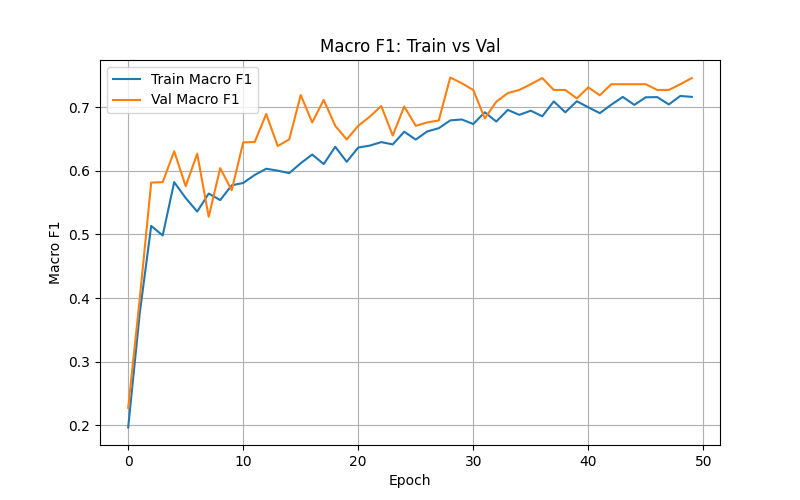
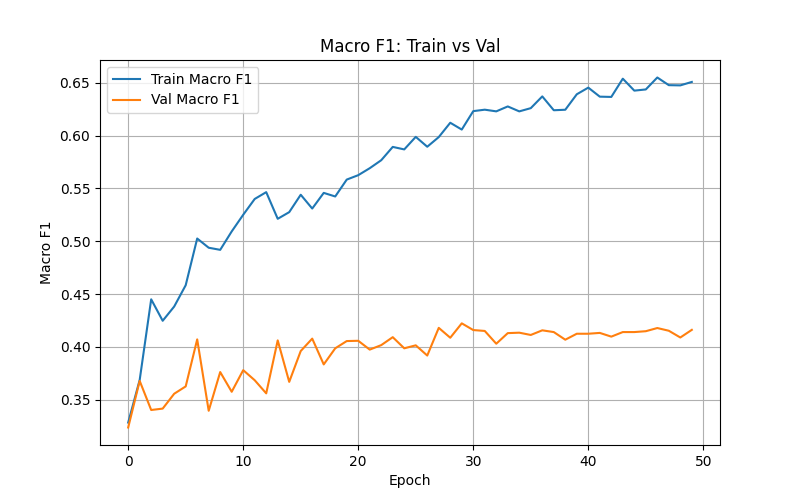
refactor: tune training class weights

diff --git a/train/train_cnn_lstm.py b/train/train_cnn_lstm.py
@@ -36,12 +36,13 @@ FEATURE_COLUMN_PATTERN = re.compile(r"^feature(\d+)_t(\d+)$")
 BATCH_SIZE = 32
 EPOCHS = 50
 LEARNING_RATE = 1e-3
-WEIGHT_DECAY = 3e-5
+WEIGHT_DECAY = 1e-5
 SCHEDULER_STEP_SIZE = 10
 SCHEDULER_GAMMA = 0.5
 VAL_RATIO = 0.2
 SPLIT_GAP_SIZE = config.SEQ_LEN
-BEST_START_EPOCH = 10
+BEST_START_EPOCH = 5
+CLASS_WEIGHT_POWER = 0.5
 
 
 # dataset 정의
@@ -213,6 +214,10 @@ def train_one_epoch(model, data_loader, criterion, optimizer, device):
         out = model(x_batch)
         loss = criterion(out, y_batch)
         loss.backward()
+
+        # gradient clipping: gradient가 너무 커져서 학습이 튀는 것을 방지
+        torch.nn.utils.clip_grad_norm_(model.parameters(), max_norm=10.0)
+
         optimizer.step()
 
         total_loss += loss.item() * x_batch.size(0)
@@ -296,17 +301,16 @@ def main():
     # 모델 학습 준비
     # 손실함수에 class weights 도입
     class_counts = np.bincount(y_train, minlength=3)
-    class_weights = np.divide(
-        1.0,
-        np.sqrt(class_counts),
-        out=np.zeros_like(class_counts, dtype=float),
-        where=class_counts > 0,
-    )
+    class_weights = (
+        class_counts.sum() / (len(class_counts) * class_counts)
+    ) ** CLASS_WEIGHT_POWER
+    class_weights = class_weights / class_weights.mean()
     class_weights = torch.tensor(class_weights, dtype=torch.float32).to(device)
+    print("Class weights:", class_weights.detach().cpu().numpy().round(4).tolist())
 
     # CNN-LSTM 모델 / 손실함수 / optimizer 정의
     model = CNNLSTM(PER_STEP_FEATURE).to(device)
-    # 완화된 class weights를 적용해 hold 편향을 줄이되 소수 클래스 loss 과증폭을 피한다.
+    # 완만한 class weights를 적용해 다수 클래스(hold) 편향을 줄인다.
     criterion = nn.CrossEntropyLoss(weight=class_weights)
     optimizer = torch.optim.Adam(
         model.parameters(),